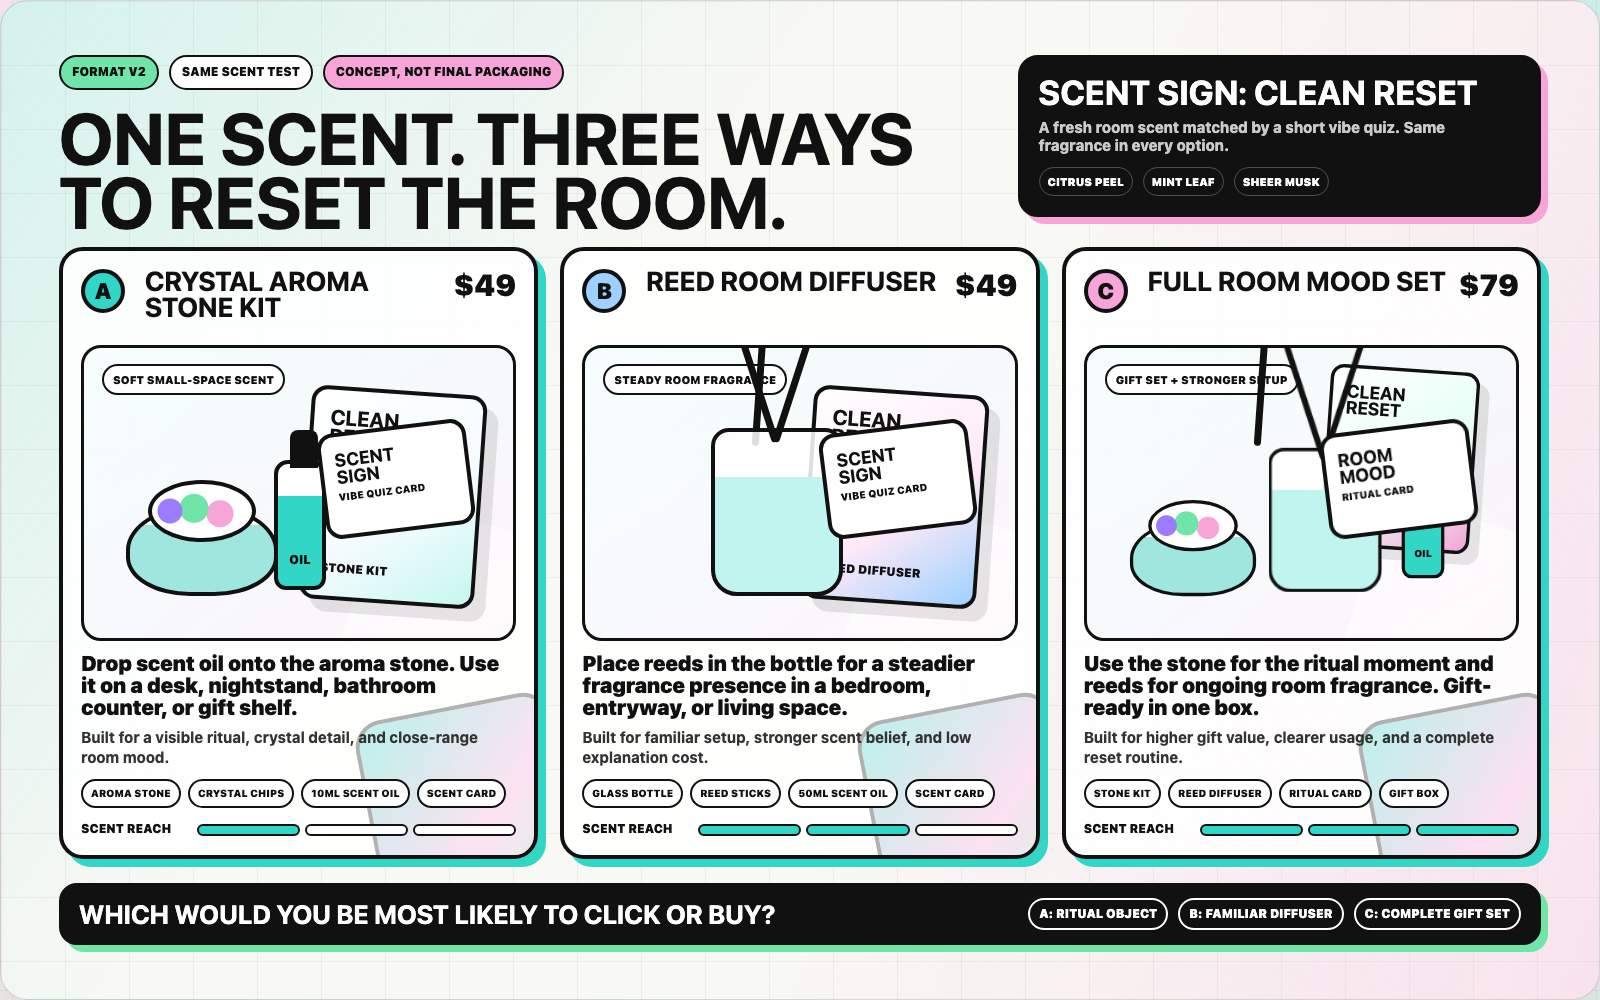
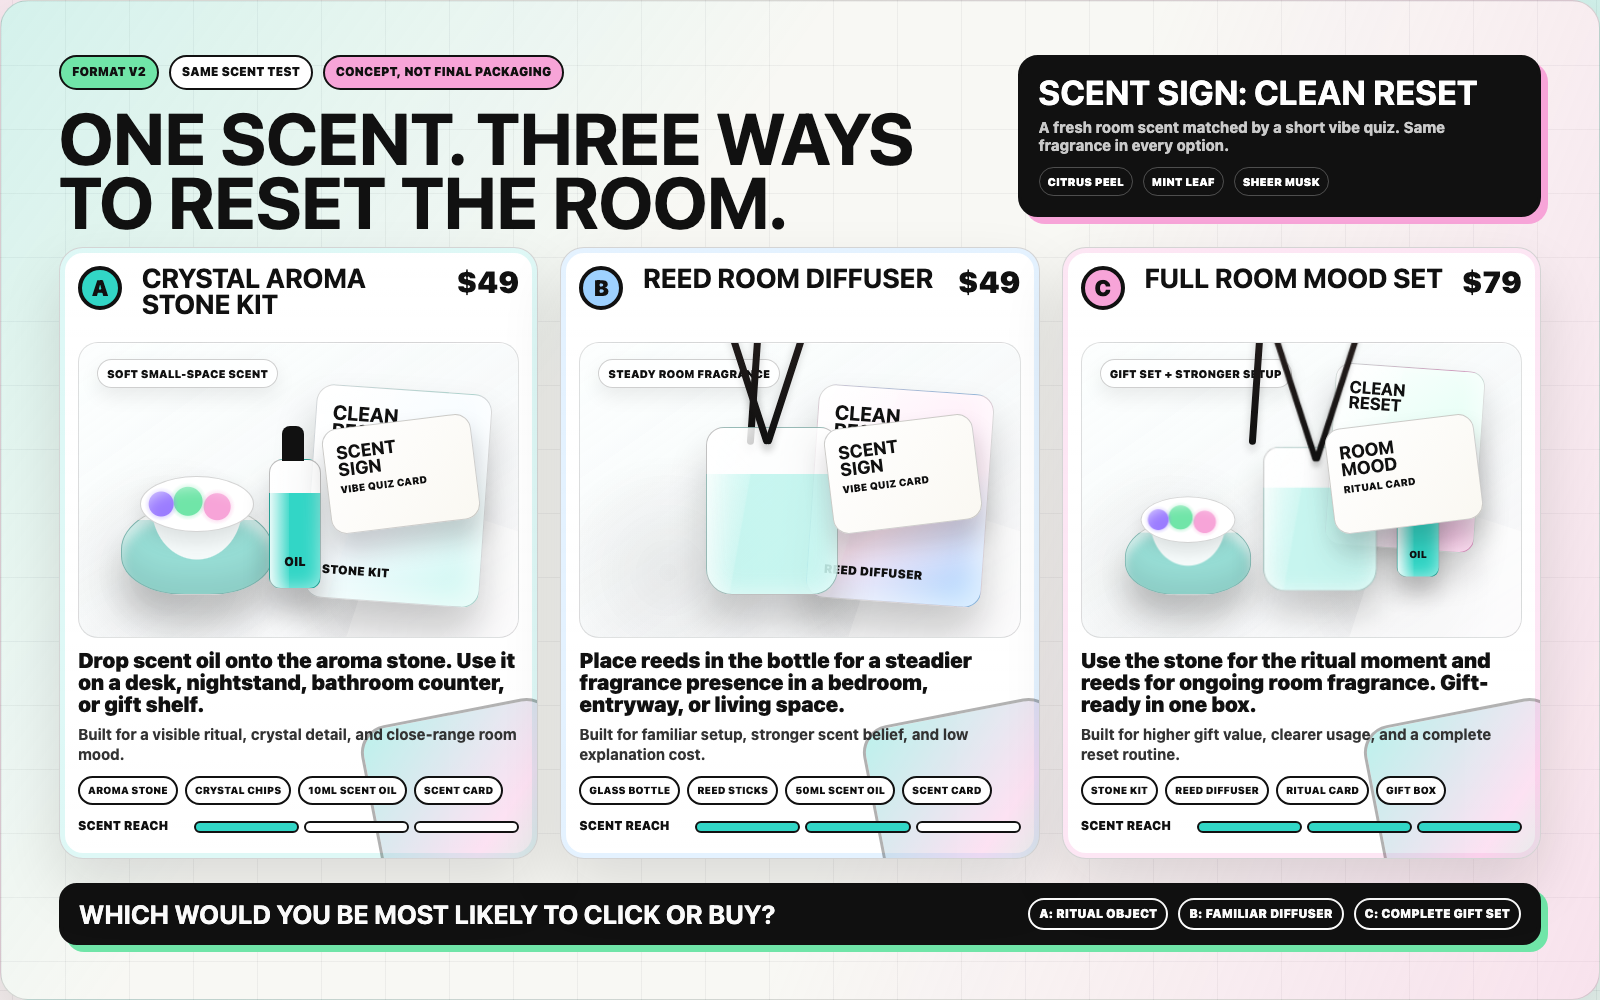
Refine format V2 asset to realistic mockup style

Changed region(s): [[0.0312, 0.248, 0.9688, 0.868]]

diff --git a/format-v2-same-scent-3-way-test-2026-06-15.html b/format-v2-same-scent-3-way-test-2026-06-15.html
@@ -254,15 +254,17 @@
       grid-template-rows: 66px 318px 1fr;
       min-width: 0;
       padding: 18px;
-      border: 4px solid #111111;
+      border: 1px solid rgba(17, 17, 17, 0.18);
       border-radius: 24px;
-      background: rgba(255, 255, 255, 0.88);
-      box-shadow: 8px 8px 0 var(--cyan);
+      background:
+        linear-gradient(180deg, rgba(255, 255, 255, 0.96), rgba(255, 255, 255, 0.84)),
+        #ffffff;
+      box-shadow: 0 28px 60px rgba(17, 17, 17, 0.12), inset 0 0 0 5px rgba(50, 214, 198, 0.16);
       overflow: hidden;
     }
 
-    .offer.b { box-shadow-color: var(--sky); }
-    .offer.c { box-shadow-color: var(--pink); }
+    .offer.b { box-shadow: 0 28px 60px rgba(17, 17, 17, 0.12), inset 0 0 0 5px rgba(158, 209, 255, 0.28); }
+    .offer.c { box-shadow: 0 28px 60px rgba(17, 17, 17, 0.12), inset 0 0 0 5px rgba(247, 164, 216, 0.28); }
 
     .offer:before {
       content: "";
@@ -270,7 +272,7 @@
       inset: auto -32px -48px auto;
       width: 190px;
       aspect-ratio: 1;
-      border: 4px solid #111111;
+      border: 3px solid #111111;
       border-radius: 28px;
       background: linear-gradient(135deg, var(--cyan), var(--pink) 62%, var(--green));
       transform: rotate(-11deg);
@@ -325,11 +327,14 @@
       position: relative;
       margin: 10px 0 12px;
       border-radius: 20px;
-      border: 3px solid #111111;
+      border: 1px solid rgba(17, 17, 17, 0.12);
       background:
-        linear-gradient(135deg, rgba(255,255,255,0.76), rgba(255,255,255,0.42)),
-        linear-gradient(150deg, rgba(50,214,198,0.18), rgba(247,164,216,0.22));
+        radial-gradient(circle at 20% 78%, rgba(17, 17, 17, 0.08), transparent 28%),
+        radial-gradient(circle at 72% 82%, rgba(17, 17, 17, 0.08), transparent 26%),
+        linear-gradient(145deg, rgba(255,255,255,0.88), rgba(244,249,248,0.68)),
+        linear-gradient(150deg, rgba(50,214,198,0.12), rgba(247,164,216,0.18));
       overflow: hidden;
+      box-shadow: inset 0 1px 0 rgba(255,255,255,0.85);
     }
 
     .mock:after {
@@ -352,13 +357,14 @@
       min-height: 28px;
       align-items: center;
       padding: 5px 9px;
-      border: 2px solid #111111;
+      border: 1px solid rgba(17,17,17,0.2);
       border-radius: 999px;
-      background: #ffffff;
+      background: rgba(255,255,255,0.86);
       color: #111111;
       font-size: 11px;
       font-weight: 950;
       text-transform: uppercase;
+      box-shadow: 0 8px 20px rgba(17,17,17,0.08);
     }
 
     .box {
@@ -367,23 +373,33 @@
       bottom: 34px;
       width: 176px;
       height: 214px;
-      border: 4px solid #111111;
-      border-radius: 16px;
-      background: linear-gradient(145deg, #ffffff, #f4fbff 58%, #c6f7ef);
-      box-shadow: 12px 12px 0 rgba(17,17,17,0.1);
+      border: 1px solid rgba(17,17,17,0.16);
+      border-radius: 18px;
+      background:
+        linear-gradient(105deg, rgba(255,255,255,0.88), rgba(255,255,255,0.26) 34%, rgba(255,255,255,0) 35%),
+        linear-gradient(145deg, #ffffff, #f4fbff 58%, #c6f7ef);
+      box-shadow: 0 26px 40px rgba(17,17,17,0.2), -10px -8px 26px rgba(255,255,255,0.64) inset;
       z-index: 2;
       transform: rotate(4deg);
     }
 
-    .box.pink { background: linear-gradient(145deg, #ffffff, #ffe9f7 58%, #9ed1ff); }
-    .box.green { background: linear-gradient(145deg, #ffffff, #e4fff5 58%, #f7a4d8); }
+    .box.pink {
+      background:
+        linear-gradient(105deg, rgba(255,255,255,0.88), rgba(255,255,255,0.26) 34%, rgba(255,255,255,0) 35%),
+        linear-gradient(145deg, #ffffff, #ffe9f7 58%, #9ed1ff);
+    }
+    .box.green {
+      background:
+        linear-gradient(105deg, rgba(255,255,255,0.88), rgba(255,255,255,0.26) 34%, rgba(255,255,255,0) 35%),
+        linear-gradient(145deg, #ffffff, #e4fff5 58%, #f7a4d8);
+    }
 
     .box b {
       position: absolute;
       left: 16px;
       top: 18px;
       color: #111111;
-      font-size: 21px;
+      font-size: 20px;
       line-height: 0.92;
       text-transform: uppercase;
     }
@@ -404,9 +420,12 @@
       bottom: 42px;
       width: 152px;
       height: 92px;
-      border: 4px solid #111111;
+      border: 1px solid rgba(17,17,17,0.2);
       border-radius: 50% 50% 42% 42%;
-      background: linear-gradient(180deg, #ffffff 0 20%, #9fe6de 20% 100%);
+      background:
+        radial-gradient(ellipse at 50% 4%, rgba(255,255,255,0.92) 0 42%, transparent 43%),
+        linear-gradient(180deg, #fbfffc 0 18%, #98ded6 18% 100%);
+      box-shadow: 0 28px 34px rgba(17,17,17,0.22), inset 0 -18px 28px rgba(17,17,17,0.08), inset 0 10px 12px rgba(255,255,255,0.64);
       z-index: 4;
     }
 
@@ -415,13 +434,14 @@
       position: absolute;
       inset: -28px 18px auto 18px;
       height: 54px;
-      border: 4px solid #111111;
+      border: 1px solid rgba(17,17,17,0.18);
       border-radius: 50%;
       background:
-        radial-gradient(circle at 18% 50%, #9b7cff 0 12px, transparent 13px),
-        radial-gradient(circle at 42% 45%, #70e5a8 0 14px, transparent 15px),
-        radial-gradient(circle at 68% 55%, #f7a4d8 0 13px, transparent 14px),
+        radial-gradient(circle at 18% 50%, #9b7cff 0 12px, rgba(155,124,255,0.24) 13px, transparent 17px),
+        radial-gradient(circle at 42% 45%, #70e5a8 0 14px, rgba(112,229,168,0.26) 15px, transparent 19px),
+        radial-gradient(circle at 68% 55%, #f7a4d8 0 13px, rgba(247,164,216,0.26) 14px, transparent 18px),
         #ffffff;
+      box-shadow: 0 10px 22px rgba(17,17,17,0.12), inset 0 8px 16px rgba(255,255,255,0.7);
     }
 
     .oil {
@@ -430,9 +450,12 @@
       bottom: 48px;
       width: 52px;
       height: 130px;
-      border: 4px solid #111111;
+      border: 1px solid rgba(17,17,17,0.28);
       border-radius: 14px 14px 12px 12px;
-      background: linear-gradient(180deg, #ffffff 0 26%, #32d6c6 26% 100%);
+      background:
+        linear-gradient(90deg, rgba(255,255,255,0.82), rgba(255,255,255,0.12) 38%, transparent 39%),
+        linear-gradient(180deg, rgba(255,255,255,0.78) 0 26%, #32d6c6 26% 100%);
+      box-shadow: 0 22px 26px rgba(17,17,17,0.22), inset 0 0 18px rgba(255,255,255,0.58);
       z-index: 5;
     }
 
@@ -443,7 +466,7 @@
       top: -34px;
       width: 20px;
       height: 34px;
-      border: 4px solid #111111;
+      border: 1px solid rgba(17,17,17,0.35);
       border-bottom: 0;
       border-radius: 8px 8px 0 0;
       background: #111111;
@@ -465,9 +488,12 @@
       bottom: 42px;
       width: 132px;
       height: 168px;
-      border: 4px solid #111111;
+      border: 1px solid rgba(17,17,17,0.26);
       border-radius: 18px 18px 26px 26px;
-      background: linear-gradient(180deg, rgba(255,255,255,0.86) 0 28%, #bff5ee 28% 100%);
+      background:
+        linear-gradient(100deg, rgba(255,255,255,0.86), rgba(255,255,255,0.18) 32%, transparent 33%),
+        linear-gradient(180deg, rgba(255,255,255,0.72) 0 28%, rgba(191,245,238,0.86) 28% 100%);
+      box-shadow: 0 28px 38px rgba(17,17,17,0.2), inset 0 0 24px rgba(255,255,255,0.62);
       z-index: 5;
     }
 
@@ -480,7 +506,8 @@
       width: 7px;
       height: 190px;
       border-radius: 999px;
-      background: #111111;
+      background: linear-gradient(180deg, #2b211f, #111111);
+      box-shadow: 0 6px 8px rgba(17,17,17,0.18);
       transform-origin: bottom center;
     }
 
@@ -494,7 +521,8 @@
       width: 7px;
       height: 180px;
       border-radius: 999px;
-      background: #111111;
+      background: linear-gradient(180deg, #2b211f, #111111);
+      box-shadow: 0 6px 8px rgba(17,17,17,0.18);
       transform: rotate(4deg);
       z-index: 4;
     }
@@ -505,9 +533,10 @@
       top: 78px;
       width: 150px;
       height: 106px;
-      border: 4px solid #111111;
+      border: 1px solid rgba(17,17,17,0.2);
       border-radius: 16px;
-      background: #ffffff;
+      background: linear-gradient(135deg, #ffffff, #faf8f2);
+      box-shadow: 0 18px 26px rgba(17,17,17,0.2);
       z-index: 5;
       transform: rotate(-7deg);
     }